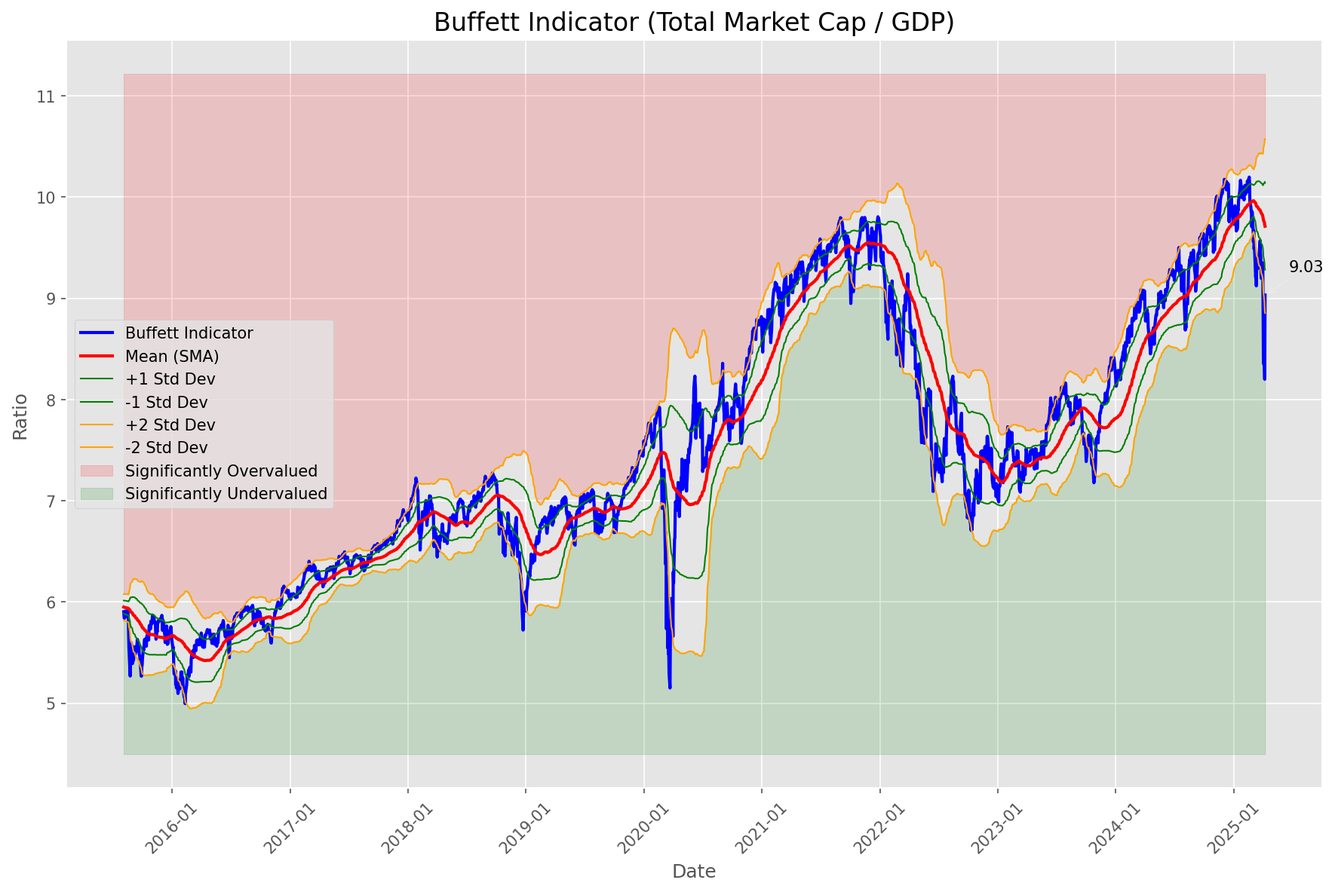
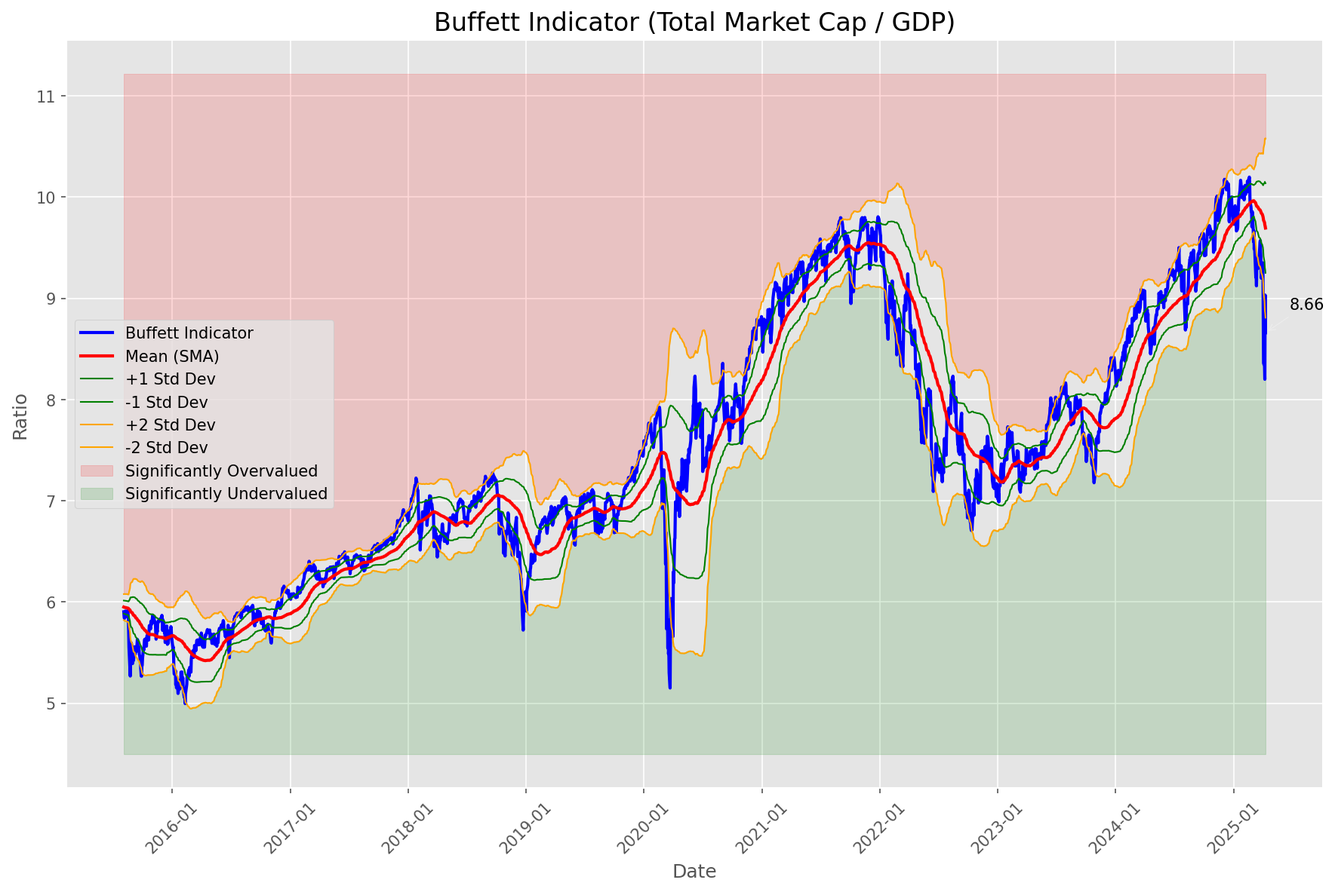
Add market report for 2025-04-11

diff --git a/oneil_relative_strength_report_2025-04-11.md b/oneil_relative_strength_report_2025-04-11.md
@@ -8,26 +8,26 @@
 
 | Metric | Value |
 |--------|-------|
-| **Market Valuation** | **Undervalued** |
-| **Current Ratio** | 8.66 |
-| **Historical Mean** | 9.71 |
-| **Standard Deviation** | 0.43 |
-| **Z-Score (StdDev from Mean)** | -1.58 |
-| **Total Market Cap** | $257.43 trillion |
+| **Market Valuation** | **Significantly Undervalued** |
+| **Current Ratio** | 8.67 |
+| **Historical Mean** | 9.69 |
+| **Standard Deviation** | 0.44 |
+| **Z-Score (StdDev from Mean)** | -2.33 |
+| **Total Market Cap** | $257.68 trillion |
 | **GDP** | $29.72 trillion |
 
 ## **Market Insights**
 
-### **Market is Undervalued**
+### **Market is Significantly Undervalued**
 
-The market is trading below historical average valuations, suggesting potential opportunity. These conditions have historically preceded periods of above-average returns. Investors should:
+The market has reached valuations significantly below historical norms, suggesting excessive pessimism. These levels have historically offered exceptional long-term buying opportunities. Investors should consider:
 
-- Look for stocks breaking out of consolidation patterns on increasing volume
-- Focus on sectors showing relative strength
-- Consider increasing equity exposure, particularly in quality names
-- Be mindful of overall market direction and avoid fighting the trend
+- Increasing equity exposure gradually
+- Looking for quality companies with strong balance sheets trading at discounted valuations
+- Watching for signs of market bottoming (capitulation, investor sentiment extremes)
+- Developing a watchlist of fundamentally strong stocks building bases
 
-History suggests patient investors are often rewarded when investing during periods of undervaluation.
+While short-term volatility may continue, historical data suggests excellent long-term returns from these levels.
 
 ### **Buffett Indicator Overview**
 
@@ -49,41 +49,41 @@ Based on William O'Neil's Relative Strength Methodology
 
 | ETF | Strength | RS Rating | Performance | Above Key MAs | Trend | Sector |
 |-----|----------|-----------|-------------|--------------|-------|--------|
-| [GLD](https://www.tradingview.com/chart/?symbol=GLD) | 98.5 | 97.0 | 19.54% | 10d ✓, 50d ✓, 200d ✓ | ↗ | Gold |
-| [SLV](https://www.tradingview.com/chart/?symbol=SLV) | 73.2 | 86.0 | 3.48% | 10d ✗, 50d ✗, 200d ✓ | ↗ | Silver |
-| [CIBR](https://www.tradingview.com/chart/?symbol=CIBR) | 65.4 | 71.0 | -3.45% | 10d ✓, 50d ✗, 200d ✗ | ↗ | Cybersecurity |
-| [IYZ](https://www.tradingview.com/chart/?symbol=IYZ) | 64.2 | 68.0 | -4.62% | 10d ✗, 50d ✗, 200d ✓ | ↗ | Telecommunications |
-| [KWEB](https://www.tradingview.com/chart/?symbol=KWEB) | 64.0 | 88.0 | 4.59% | 10d ✗, 50d ✗, 200d ✗ | ↗ | Chinese Internet |
-| [XLP](https://www.tradingview.com/chart/?symbol=XLP) | 63.0 | 86.0 | 2.73% | 10d ✗, 50d ✗, 200d ✗ | ↗ | Consumer Staples |
-| [XLU](https://www.tradingview.com/chart/?symbol=XLU) | 58.5 | 77.0 | -0.83% | 10d ✗, 50d ✗, 200d ✗ | ↗ | Utilities |
-| [DBA](https://www.tradingview.com/chart/?symbol=DBA) | 56.5 | 73.0 | -2.53% | 10d ✗, 50d ✗, 200d ✗ | ↗ | Agriculture |
-| [IYR](https://www.tradingview.com/chart/?symbol=IYR) | 54.0 | 68.0 | -4.55% | 10d ✗, 50d ✗, 200d ✗ | ↗ | Real Estate |
-| [XLF](https://www.tradingview.com/chart/?symbol=XLF) | 53.5 | 67.0 | -5.01% | 10d ✗, 50d ✗, 200d ✗ | ↗ | Financial |
-| [UUP](https://www.tradingview.com/chart/?symbol=UUP) | 52.0 | 64.0 | -6.10% | 10d ✗, 50d ✗, 200d ✗ | ↗ | U.S. Dollar |
-| [XLI](https://www.tradingview.com/chart/?symbol=XLI) | 51.5 | 63.0 | -6.66% | 10d ✗, 50d ✗, 200d ✗ | ↗ | Industrial |
-| [XLC](https://www.tradingview.com/chart/?symbol=XLC) | 50.0 | 60.0 | -7.50% | 10d ✗, 50d ✗, 200d ✗ | ↗ | Communications |
-| [PAVE](https://www.tradingview.com/chart/?symbol=PAVE) | 44.0 | 48.0 | -11.87% | 10d ✗, 50d ✗, 200d ✗ | ↗ | Infrastructure |
-| [AIQ](https://www.tradingview.com/chart/?symbol=AIQ) | 42.5 | 45.0 | -13.22% | 10d ✗, 50d ✗, 200d ✗ | ↗ | Artificial Intelligence & Technology |
-| [TLT](https://www.tradingview.com/chart/?symbol=TLT) | 40.5 | 81.0 | 0.58% | 10d ✗, 50d ✗, 200d ✗ | ↘ | Long-term Treasuries |
+| [GLD](https://www.tradingview.com/chart/?symbol=GLD) | 99.0 | 98.0 | 21.27% | 10d ✓, 50d ✓, 200d ✓ | ↗ | Gold |
+| [SLV](https://www.tradingview.com/chart/?symbol=SLV) | 84.1 | 88.0 | 5.42% | 10d ✓, 50d ✗, 200d ✓ | ↗ | Silver |
+| [XLP](https://www.tradingview.com/chart/?symbol=XLP) | 72.9 | 86.0 | 3.11% | 10d ✓, 50d ✗, 200d ✗ | ↗ | Consumer Staples |
+| [KWEB](https://www.tradingview.com/chart/?symbol=KWEB) | 65.0 | 90.0 | 6.33% | 10d ✗, 50d ✗, 200d ✗ | ↗ | Chinese Internet |
+| [CIBR](https://www.tradingview.com/chart/?symbol=CIBR) | 64.9 | 70.0 | -3.45% | 10d ✓, 50d ✗, 200d ✗ | ↗ | Cybersecurity |
+| [IYZ](https://www.tradingview.com/chart/?symbol=IYZ) | 63.7 | 67.0 | -4.59% | 10d ✗, 50d ✗, 200d ✓ | ↗ | Telecommunications |
+| [XLU](https://www.tradingview.com/chart/?symbol=XLU) | 58.0 | 76.0 | -0.86% | 10d ✗, 50d ✗, 200d ✗ | ↗ | Utilities |
+| [DBA](https://www.tradingview.com/chart/?symbol=DBA) | 56.0 | 72.0 | -2.53% | 10d ✗, 50d ✗, 200d ✗ | ↗ | Agriculture |
+| [XLF](https://www.tradingview.com/chart/?symbol=XLF) | 53.5 | 67.0 | -4.95% | 10d ✗, 50d ✗, 200d ✗ | ↗ | Financial |
+| [IYR](https://www.tradingview.com/chart/?symbol=IYR) | 53.0 | 66.0 | -5.09% | 10d ✗, 50d ✗, 200d ✗ | ↗ | Real Estate |
+| [XLC](https://www.tradingview.com/chart/?symbol=XLC) | 51.5 | 63.0 | -6.66% | 10d ✗, 50d ✗, 200d ✗ | ↗ | Communications |
+| [XLI](https://www.tradingview.com/chart/?symbol=XLI) | 51.0 | 62.0 | -6.84% | 10d ✗, 50d ✗, 200d ✗ | ↗ | Industrial |
+| [UUP](https://www.tradingview.com/chart/?symbol=UUP) | 50.0 | 60.0 | -7.60% | 10d ✗, 50d ✗, 200d ✗ | ↗ | U.S. Dollar |
+| [BIL](https://www.tradingview.com/chart/?symbol=BIL) | 49.4 | 79.0 | 0.04% | 10d ✓, 50d ✗, 200d ✗ | ↘ | Short-term Treasuries |
+| [PAVE](https://www.tradingview.com/chart/?symbol=PAVE) | 44.0 | 48.0 | -11.97% | 10d ✗, 50d ✗, 200d ✗ | ↗ | Infrastructure |
+| [AIQ](https://www.tradingview.com/chart/?symbol=AIQ) | 42.0 | 44.0 | -13.22% | 10d ✗, 50d ✗, 200d ✗ | ↗ | Artificial Intelligence & Technology |
 | [IYT](https://www.tradingview.com/chart/?symbol=IYT) | 40.0 | 40.0 | -15.05% | 10d ✗, 50d ✗, 200d ✗ | ↗ | Transportation |
-| [XLY](https://www.tradingview.com/chart/?symbol=XLY) | 39.5 | 39.0 | -15.50% | 10d ✗, 50d ✗, 200d ✗ | ↗ | Consumer Discretionary |
-| [BIL](https://www.tradingview.com/chart/?symbol=BIL) | 39.5 | 79.0 | 0.03% | 10d ✗, 50d ✗, 200d ✗ | ↘ | Short-term Treasuries |
+| [XLY](https://www.tradingview.com/chart/?symbol=XLY) | 39.0 | 38.0 | -15.95% | 10d ✗, 50d ✗, 200d ✗ | ↗ | Consumer Discretionary |
+| [TLT](https://www.tradingview.com/chart/?symbol=TLT) | 39.0 | 78.0 | -0.18% | 10d ✗, 50d ✗, 200d ✗ | ↘ | Long-term Treasuries |
+| [XLK](https://www.tradingview.com/chart/?symbol=XLK) | 38.5 | 37.0 | -16.45% | 10d ✗, 50d ✗, 200d ✗ | ↗ | Technology |
 | [ARKF](https://www.tradingview.com/chart/?symbol=ARKF) | 38.5 | 37.0 | -16.38% | 10d ✗, 50d ✗, 200d ✗ | ↗ | Fintech Innovation |
-| [XLK](https://www.tradingview.com/chart/?symbol=XLK) | 38.0 | 36.0 | -16.92% | 10d ✗, 50d ✗, 200d ✗ | ↗ | Technology |
-| [XLV](https://www.tradingview.com/chart/?symbol=XLV) | 35.5 | 71.0 | -3.45% | 10d ✗, 50d ✗, 200d ✗ | ↘ | Healthcare |
+| [XLV](https://www.tradingview.com/chart/?symbol=XLV) | 35.0 | 70.0 | -3.48% | 10d ✗, 50d ✗, 200d ✗ | ↘ | Healthcare |
 | [BLOK](https://www.tradingview.com/chart/?symbol=BLOK) | 35.0 | 30.0 | -19.59% | 10d ✗, 50d ✗, 200d ✗ | ↗ | Blockchain & Cryptocurrency |
+| [ICLN](https://www.tradingview.com/chart/?symbol=ICLN) | 35.0 | 70.0 | -3.60% | 10d ✗, 50d ✗, 200d ✗ | ↘ | Clean Energy |
 | [ARKW](https://www.tradingview.com/chart/?symbol=ARKW) | 34.5 | 29.0 | -20.02% | 10d ✗, 50d ✗, 200d ✗ | ↗ | Next Generation Internet |
-| [DBC](https://www.tradingview.com/chart/?symbol=DBC) | 34.0 | 68.0 | -4.58% | 10d ✗, 50d ✗, 200d ✗ | ↘ | Commodities |
-| [XLB](https://www.tradingview.com/chart/?symbol=XLB) | 31.5 | 63.0 | -6.59% | 10d ✗, 50d ✗, 200d ✗ | ↘ | Materials |
-| [ARKK](https://www.tradingview.com/chart/?symbol=ARKK) | 30.5 | 21.0 | -24.40% | 10d ✗, 50d ✗, 200d ✗ | ↗ | Innovation |
-| [ICLN](https://www.tradingview.com/chart/?symbol=ICLN) | 30.0 | 60.0 | -7.70% | 10d ✗, 50d ✗, 200d ✗ | ↘ | Clean Energy |
-| [JETS](https://www.tradingview.com/chart/?symbol=JETS) | 28.0 | 16.0 | -27.86% | 10d ✗, 50d ✗, 200d ✗ | ↗ | Airlines |
-| [XLE](https://www.tradingview.com/chart/?symbol=XLE) | 23.5 | 47.0 | -12.46% | 10d ✗, 50d ✗, 200d ✗ | ↘ | Energy |
-| [ITB](https://www.tradingview.com/chart/?symbol=ITB) | 22.5 | 45.0 | -13.08% | 10d ✗, 50d ✗, 200d ✗ | ↘ | Home Construction |
-| [IBB](https://www.tradingview.com/chart/?symbol=IBB) | 18.5 | 37.0 | -16.48% | 10d ✗, 50d ✗, 200d ✗ | ↘ | Biotechnology |
-| [URA](https://www.tradingview.com/chart/?symbol=URA) | 11.0 | 22.0 | -23.47% | 10d ✗, 50d ✗, 200d ✗ | ↘ | Uranium |
-| [ARKG](https://www.tradingview.com/chart/?symbol=ARKG) | 10.5 | 21.0 | -24.35% | 10d ✗, 50d ✗, 200d ✗ | ↘ | Genomics |
-| [SOXX](https://www.tradingview.com/chart/?symbol=SOXX) | 9.5 | 19.0 | -25.32% | 10d ✗, 50d ✗, 200d ✗ | ↘ | Semiconductors |
+| [DBC](https://www.tradingview.com/chart/?symbol=DBC) | 34.5 | 69.0 | -4.01% | 10d ✗, 50d ✗, 200d ✗ | ↘ | Commodities |
+| [XLB](https://www.tradingview.com/chart/?symbol=XLB) | 32.5 | 65.0 | -5.80% | 10d ✗, 50d ✗, 200d ✗ | ↘ | Materials |
+| [ARKK](https://www.tradingview.com/chart/?symbol=ARKK) | 30.5 | 21.0 | -23.80% | 10d ✗, 50d ✗, 200d ✗ | ↗ | Innovation |
+| [JETS](https://www.tradingview.com/chart/?symbol=JETS) | 28.0 | 16.0 | -27.80% | 10d ✗, 50d ✗, 200d ✗ | ↗ | Airlines |
+| [URA](https://www.tradingview.com/chart/?symbol=URA) | 24.4 | 29.0 | -19.65% | 10d ✓, 50d ✗, 200d ✗ | ↘ | Uranium |
+| [XLE](https://www.tradingview.com/chart/?symbol=XLE) | 23.0 | 46.0 | -12.44% | 10d ✗, 50d ✗, 200d ✗ | ↘ | Energy |
+| [ARKG](https://www.tradingview.com/chart/?symbol=ARKG) | 22.4 | 25.0 | -21.43% | 10d ✓, 50d ✗, 200d ✗ | ↘ | Genomics |
+| [ITB](https://www.tradingview.com/chart/?symbol=ITB) | 20.5 | 41.0 | -14.68% | 10d ✗, 50d ✗, 200d ✗ | ↘ | Home Construction |
+| [IBB](https://www.tradingview.com/chart/?symbol=IBB) | 19.5 | 39.0 | -15.17% | 10d ✗, 50d ✗, 200d ✗ | ↘ | Biotechnology |
+| [SOXX](https://www.tradingview.com/chart/?symbol=SOXX) | 10.5 | 21.0 | -24.38% | 10d ✗, 50d ✗, 200d ✗ | ↘ | Semiconductors |
 
 ### **Sector ETF Performance Interpretation**
 
@@ -98,107 +98,120 @@ This table shows the relative strength metrics for different market sectors base
 
 ### **Current Sector Leadership**
 
-The current market leadership is coming from the following sectors: **Gold, Silver, Cybersecurity**.
+The current market leadership is coming from the following sectors: **Gold, Silver, Consumer Staples**.
 
-The **Gold** sector (represented by **GLD**) is showing particularly strong relative strength with an RS rating of 97.0 and performance of 19.54% vs. the S&P 500. This sector is trading above its 10-day, 50-day, 200-day moving average(s). Investors should consider focusing on high RS stocks within these leading sectors for potential outperformance.
+The **Gold** sector (represented by **GLD**) is showing particularly strong relative strength with an RS rating of 98.0 and performance of 21.27% vs. the S&P 500. This sector is trading above its 10-day, 50-day, 200-day moving average(s). Investors should consider focusing on high RS stocks within these leading sectors for potential outperformance.
 
 ---
 
 ## **Buy Recommendations**
 
-The following 44 stocks show exceptional relative strength:
+The following 52 stocks show exceptional relative strength:
 
 | RS Rating | Buy Score | Current Price | Chart | Name | Ticker |
 |-----------|-----------|---------------|-------|------|--------|
-| 100 | 100 | $111.55 | [Chart](https://www.tradingview.com/chart/?symbol=AEM) | Agnico Eagle Mines Ltd. | AEM |
-| 100 | 100 | $131.04 | [Chart](https://www.tradingview.com/chart/?symbol=UGL) | ProShares Ultra Gold | UGL |
-| 100 | 100 | $27.97 | [Chart](https://www.tradingview.com/chart/?symbol=AGI) | Alamos Gold Inc. Class A Common Shares | AGI |
-| 99 | 100 | $117.30 | [Chart](https://www.tradingview.com/chart/?symbol=BJ) | BJs Wholesale Club Holdings, Inc. Common Stock | BJ |
-| 99 | 100 | $170.97 | [Chart](https://www.tradingview.com/chart/?symbol=RGLD) | Royal Gold Inc | RGLD |
-| 99 | 100 | $77.90 | [Chart](https://www.tradingview.com/chart/?symbol=WPM) | Wheaton Precious Metals Corp. Common Stock | WPM |
+| 100 | 100 | $117.51 | [Chart](https://www.tradingview.com/chart/?symbol=AEM) | Agnico Eagle Mines Ltd. | AEM |
+| 100 | 100 | $136.10 | [Chart](https://www.tradingview.com/chart/?symbol=UGL) | ProShares Ultra Gold | UGL |
+| 100 | 100 | $81.97 | [Chart](https://www.tradingview.com/chart/?symbol=WPM) | Wheaton Precious Metals Corp. Common Stock | WPM |
+| 100 | 100 | $29.43 | [Chart](https://www.tradingview.com/chart/?symbol=AGI) | Alamos Gold Inc. Class A Common Shares | AGI |
 | 99 | 100 | $142.99 | [Chart](https://www.tradingview.com/chart/?symbol=PLMR) | Palomar Holdings, Inc. Common stock | PLMR |
-| 99 | 100 | $58.23 | [Chart](https://www.tradingview.com/chart/?symbol=GDXJ) | VanEck Junior Gold Miners ETF | GDXJ |
-| 99 | 100 | $15.49 | [Chart](https://www.tradingview.com/chart/?symbol=EZPW) | Ezcorp Inc | EZPW |
-| 99 | 100 | $18.49 | [Chart](https://www.tradingview.com/chart/?symbol=SWI) | SolarWinds Corporation Common Stock | SWI |
-| 98 | 100 | $22.02 | [Chart](https://www.tradingview.com/chart/?symbol=SRAD) | Sportradar Group AG Class A Ordinary Shares | SRAD |
-| 97 | 100 | $292.35 | [Chart](https://www.tradingview.com/chart/?symbol=GLD) | SPDR Gold Trust, SPDR Gold Shares | GLD |
-| 97 | 100 | $31.32 | [Chart](https://www.tradingview.com/chart/?symbol=AAAU) | Goldman Sachs Physical Gold ETF Shares | AAAU |
-| 97 | 100 | $62.80 | [Chart](https://www.tradingview.com/chart/?symbol=GLDM) | SPDR Gold MiniShares | GLDM |
-| 97 | 100 | $21.81 | [Chart](https://www.tradingview.com/chart/?symbol=OR) | Osisko Gold Royalties Ltd | OR |
-| 97 | 100 | $31.63 | [Chart](https://www.tradingview.com/chart/?symbol=IAUM) | iShares Gold Trust Micro | IAUM |
-| 97 | 100 | $24.32 | [Chart](https://www.tradingview.com/chart/?symbol=PHYS) | Sprott Physical Gold Trust | PHYS |
-| 97 | 100 | $30.26 | [Chart](https://www.tradingview.com/chart/?symbol=SGOL) | abrdn Physical Gold Shares ETF | SGOL |
-| 97 | 100 | $31.26 | [Chart](https://www.tradingview.com/chart/?symbol=BAR) | GraniteShares Gold Shares | BAR |
-| 97 | 100 | $59.81 | [Chart](https://www.tradingview.com/chart/?symbol=IAU) | iShares Gold Trust | IAU |
-| 97 | 100 | $240.23 | [Chart](https://www.tradingview.com/chart/?symbol=RSG) | Republic Services Inc. | RSG |
-| 97 | 100 | $30.55 | [Chart](https://www.tradingview.com/chart/?symbol=OUNZ) | VanEck Merk Gold ETF | OUNZ |
-| 96 | 100 | $37.48 | [Chart](https://www.tradingview.com/chart/?symbol=MRX) | Marex Group plc Ordinary Shares | MRX |
+| 99 | 100 | $61.05 | [Chart](https://www.tradingview.com/chart/?symbol=GDXJ) | VanEck Junior Gold Miners ETF | GDXJ |
+| 99 | 100 | $178.06 | [Chart](https://www.tradingview.com/chart/?symbol=RGLD) | Royal Gold Inc | RGLD |
+| 99 | 100 | $18.48 | [Chart](https://www.tradingview.com/chart/?symbol=SWI) | SolarWinds Corporation Common Stock | SWI |
+| 99 | 100 | $15.46 | [Chart](https://www.tradingview.com/chart/?symbol=EZPW) | Ezcorp Inc | EZPW |
+| 98 | 100 | $61.00 | [Chart](https://www.tradingview.com/chart/?symbol=IAU) | iShares Gold Trust | IAU |
+| 98 | 100 | $154.41 | [Chart](https://www.tradingview.com/chart/?symbol=PM) | Philip Morris International Inc. | PM |
+| 98 | 100 | $24.83 | [Chart](https://www.tradingview.com/chart/?symbol=PHYS) | Sprott Physical Gold Trust | PHYS |
+| 98 | 100 | $31.90 | [Chart](https://www.tradingview.com/chart/?symbol=BAR) | GraniteShares Gold Shares | BAR |
+| 98 | 100 | $32.25 | [Chart](https://www.tradingview.com/chart/?symbol=IAUM) | iShares Gold Trust Micro | IAUM |
+| 98 | 100 | $30.85 | [Chart](https://www.tradingview.com/chart/?symbol=SGOL) | abrdn Physical Gold Shares ETF | SGOL |
+| 98 | 100 | $115.38 | [Chart](https://www.tradingview.com/chart/?symbol=BJ) | BJs Wholesale Club Holdings, Inc. Common Stock | BJ |
+| 98 | 100 | $31.18 | [Chart](https://www.tradingview.com/chart/?symbol=OUNZ) | VanEck Merk Gold ETF | OUNZ |
+| 98 | 100 | $298.15 | [Chart](https://www.tradingview.com/chart/?symbol=GLD) | SPDR Gold Trust, SPDR Gold Shares | GLD |
+| 98 | 100 | $64.05 | [Chart](https://www.tradingview.com/chart/?symbol=GLDM) | SPDR Gold MiniShares | GLDM |
+| 97 | 100 | $22.33 | [Chart](https://www.tradingview.com/chart/?symbol=OR) | Osisko Gold Royalties Ltd | OR |
+| 97 | 100 | $45.48 | [Chart](https://www.tradingview.com/chart/?symbol=EXC) | Exelon Corporation | EXC |
+| 97 | 100 | $123.00 | [Chart](https://www.tradingview.com/chart/?symbol=BECN) | Beacon Roofing Supply, Inc. | BECN |
+| 97 | 100 | $22.29 | [Chart](https://www.tradingview.com/chart/?symbol=SRAD) | Sportradar Group AG Class A Ordinary Shares | SRAD |
+| 96 | 100 | $241.70 | [Chart](https://www.tradingview.com/chart/?symbol=RSG) | Republic Services Inc. | RSG |
+| 96 | 100 | $28.55 | [Chart](https://www.tradingview.com/chart/?symbol=CEF) | Sprott Physical Gold and Silver Trust | CEF |
+| 96 | 100 | $37.50 | [Chart](https://www.tradingview.com/chart/?symbol=MRX) | Marex Group plc Ordinary Shares | MRX |
+| 95 | 100 | $86.65 | [Chart](https://www.tradingview.com/chart/?symbol=CCEP) | Coca-Cola Europacific Partners plc Ordinary Shares | CCEP |
 | 95 | 100 | $52.15 | [Chart](https://www.tradingview.com/chart/?symbol=SKWD) | Skyward Specialty Insurance Group, Inc. Common Stock | SKWD |
-| 95 | 100 | $27.97 | [Chart](https://www.tradingview.com/chart/?symbol=CEF) | Sprott Physical Gold and Silver Trust | CEF |
-| 95 | 100 | $67.90 | [Chart](https://www.tradingview.com/chart/?symbol=KR) | The Kroger Co. | KR |
+| 95 | 100 | $263.64 | [Chart](https://www.tradingview.com/chart/?symbol=CME) | CME Group Inc. | CME |
+| 95 | 100 | $67.61 | [Chart](https://www.tradingview.com/chart/?symbol=KR) | The Kroger Co. | KR |
+| 95 | 100 | $518.36 | [Chart](https://www.tradingview.com/chart/?symbol=BRK.B) | BERKSHIRE HATHAWAY Class B | BRK.B |
+| 94 | 100 | $41.38 | [Chart](https://www.tradingview.com/chart/?symbol=BTI) | British American Tobacco p.l.c. American Depositary Shares, American Depositary Shares, each representing one Ordinary Share | BTI |
 | 94 | 100 | $102.13 | [Chart](https://www.tradingview.com/chart/?symbol=EHC) | Encompass Health Corporation Common Stock | EHC |
+| 94 | 100 | $272.66 | [Chart](https://www.tradingview.com/chart/?symbol=PGR) | Progressive Corporation | PGR |
 | 94 | 100 | $438.01 | [Chart](https://www.tradingview.com/chart/?symbol=CASY) | Casey's General Stores Inc | CASY |
-| 94 | 100 | $273.18 | [Chart](https://www.tradingview.com/chart/?symbol=PGR) | Progressive Corporation | PGR |
 | 93 | 100 | $102.78 | [Chart](https://www.tradingview.com/chart/?symbol=ATGE) | Adtalem Global Education Inc. Common Shares | ATGE |
-| 93 | 100 | $153.92 | [Chart](https://www.tradingview.com/chart/?symbol=SFM) | Sprouts Farmers Market, Inc. | SFM |
-| 93 | 100 | $31.71 | [Chart](https://www.tradingview.com/chart/?symbol=KTOS) | Kratos Defense & Security Solutions, Inc. | KTOS |
-| 93 | 100 | $40.55 | [Chart](https://www.tradingview.com/chart/?symbol=BTI) | British American Tobacco p.l.c. American Depositary Shares, American Depositary Shares, each representing one Ordinary Share | BTI |
-| 92 | 100 | $113.25 | [Chart](https://www.tradingview.com/chart/?symbol=OLLI) | Ollie's Bargain Outlet Holdings, Inc. Common Stock | OLLI |
-| 92 | 100 | $47.50 | [Chart](https://www.tradingview.com/chart/?symbol=GFL) | GFL Environmental Inc. Subordinate Voting Shares | GFL |
+| 93 | 100 | $31.90 | [Chart](https://www.tradingview.com/chart/?symbol=KTOS) | Kratos Defense & Security Solutions, Inc. | KTOS |
+| 93 | 100 | $193.42 | [Chart](https://www.tradingview.com/chart/?symbol=WCN) | Waste Connections, Inc. | WCN |
+| 93 | 100 | $155.56 | [Chart](https://www.tradingview.com/chart/?symbol=SFM) | Sprouts Farmers Market, Inc. | SFM |
+| 91 | 100 | $78.93 | [Chart](https://www.tradingview.com/chart/?symbol=FAST) | Fastenal Co | FAST |
+| 91 | 100 | $48.20 | [Chart](https://www.tradingview.com/chart/?symbol=GFL) | GFL Environmental Inc. Subordinate Voting Shares | GFL |
+| 91 | 100 | $307.69 | [Chart](https://www.tradingview.com/chart/?symbol=MCD) | McDonald's Corporation | MCD |
 | 91 | 100 | $114.00 | [Chart](https://www.tradingview.com/chart/?symbol=CWST) | Casella Waste Systems Inc | CWST |
-| 90 | 100 | $127.47 | [Chart](https://www.tradingview.com/chart/?symbol=TJX) | TJX Companies, Inc. (The) | TJX |
 | 89 | 100 | $33.96 | [Chart](https://www.tradingview.com/chart/?symbol=DRS) | Leonardo DRS, Inc. Common Stock | DRS |
-| 89 | 100 | $44.75 | [Chart](https://www.tradingview.com/chart/?symbol=MRCY) | Mercury Systems Inc. | MRCY |
-| 88 | 97 | $75.79 | [Chart](https://www.tradingview.com/chart/?symbol=FAST) | Fastenal Co | FAST |
-| 85 | 97 | $22.48 | [Chart](https://www.tradingview.com/chart/?symbol=ATSG) | Air Transport Services Group, Inc. | ATSG |
-| 85 | 96 | $74.01 | [Chart](https://www.tradingview.com/chart/?symbol=BRBR) | BellRing Brands, Inc. | BRBR |
-| 85 | 96 | $35.94 | [Chart](https://www.tradingview.com/chart/?symbol=FYBR) | Frontier Communications Parent, Inc. Common Stock | FYBR |
-| 83 | 96 | $111.60 | [Chart](https://www.tradingview.com/chart/?symbol=BOXX) | Alpha Architect 1-3 Month Box ETF | BOXX |
+| 88 | 100 | $44.75 | [Chart](https://www.tradingview.com/chart/?symbol=MRCY) | Mercury Systems Inc. | MRCY |
+| 86 | 99 | $17.90 | [Chart](https://www.tradingview.com/chart/?symbol=GRND) | Grindr Inc. | GRND |
+| 88 | 98 | $127.51 | [Chart](https://www.tradingview.com/chart/?symbol=TJX) | TJX Companies, Inc. (The) | TJX |
+| 84 | 96 | $22.48 | [Chart](https://www.tradingview.com/chart/?symbol=ATSG) | Air Transport Services Group, Inc. | ATSG |
+| 83 | 96 | $111.65 | [Chart](https://www.tradingview.com/chart/?symbol=BOXX) | Alpha Architect 1-3 Month Box ETF | BOXX |
+| 84 | 95 | $74.01 | [Chart](https://www.tradingview.com/chart/?symbol=BRBR) | BellRing Brands, Inc. | BRBR |
+| 83 | 94 | $35.91 | [Chart](https://www.tradingview.com/chart/?symbol=FYBR) | Frontier Communications Parent, Inc. Common Stock | FYBR |
+| 83 | 93 | $22.48 | [Chart](https://www.tradingview.com/chart/?symbol=PYCR) | Paycor HCM, Inc. Common Stock | PYCR |
 
 ---
 
 
 ## **Sell Recommendations**
 
-The following 36 stocks show deteriorating relative strength:
+The following 41 stocks show deteriorating relative strength:
 
 | RS Rating | Sell Score | Current Price | Chart | Name | Ticker |
 |-----------|------------|---------------|-------|------|--------|
-| 1 | 100 | $65.92 | [Chart](https://www.tradingview.com/chart/?symbol=PI) | Impinj, Inc. Common Stock | PI |
-| 3 | 100 | $18.79 | [Chart](https://www.tradingview.com/chart/?symbol=DJT) | Trump Media & Technology Group Corp. Common Stock | DJT |
-| 5 | 100 | $11.58 | [Chart](https://www.tradingview.com/chart/?symbol=GCT) | GigaCloud Technology Inc Class A Ordinary Shares | GCT |
+| 1 | 100 | $66.19 | [Chart](https://www.tradingview.com/chart/?symbol=PI) | Impinj, Inc. Common Stock | PI |
+| 4 | 100 | $19.00 | [Chart](https://www.tradingview.com/chart/?symbol=DJT) | Trump Media & Technology Group Corp. Common Stock | DJT |
+| 6 | 100 | $11.56 | [Chart](https://www.tradingview.com/chart/?symbol=GCT) | GigaCloud Technology Inc Class A Ordinary Shares | GCT |
 | 7 | 100 | $10.10 | [Chart](https://www.tradingview.com/chart/?symbol=CGEM) | Cullinan Therapeutics, Inc. Common Stock | CGEM |
-| 11 | 100 | $42.57 | [Chart](https://www.tradingview.com/chart/?symbol=EDU) | New Oriental Education and Technology Group, Inc. American Depositary Shares (each representing ten (10) Common Shares) | EDU |
+| 12 | 100 | $43.70 | [Chart](https://www.tradingview.com/chart/?symbol=EDU) | New Oriental Education and Technology Group, Inc. American Depositary Shares (each representing ten (10) Common Shares) | EDU |
 | 13 | 100 | $27.24 | [Chart](https://www.tradingview.com/chart/?symbol=SRDX) | Surmodics, Inc. Common Stock | SRDX |
-| 12 | 97 | $49.56 | [Chart](https://www.tradingview.com/chart/?symbol=ENPH) | Enphase Energy, Inc. | ENPH |
+| 13 | 99 | $19.31 | [Chart](https://www.tradingview.com/chart/?symbol=ST) | Sensata Technologies Holding plc | ST |
+| 15 | 97 | $49.65 | [Chart](https://www.tradingview.com/chart/?symbol=ENPH) | Enphase Energy, Inc. | ENPH |
+| 8 | 94 | $12.51 | [Chart](https://www.tradingview.com/chart/?symbol=DV) | DoubleVerify Holdings, Inc. | DV |
 | 15 | 94 | $11.78 | [Chart](https://www.tradingview.com/chart/?symbol=AEYE) | AudioEye, Inc. Common Stock | AEYE |
+| 11 | 92 | $12.28 | [Chart](https://www.tradingview.com/chart/?symbol=MARA) | MARA Holdings, Inc. Common Stock | MARA |
+| 15 | 92 | $48.20 | [Chart](https://www.tradingview.com/chart/?symbol=RHI) | Robert Half Inc. | RHI |
 | 14 | 91 | $19.42 | [Chart](https://www.tradingview.com/chart/?symbol=HZO) | MarineMax, Inc. | HZO |
+| 24 | 91 | $13.22 | [Chart](https://www.tradingview.com/chart/?symbol=FXN) | First Trust Energy AlphaDEX Fund | FXN |
 | 26 | 91 | $10.03 | [Chart](https://www.tradingview.com/chart/?symbol=MTAL) | MAC Copper Limited | MTAL |
-| 25 | 90 | $13.22 | [Chart](https://www.tradingview.com/chart/?symbol=FXN) | First Trust Energy AlphaDEX Fund | FXN |
 | 12 | 89 | $10.01 | [Chart](https://www.tradingview.com/chart/?symbol=VYX) | NCR Voyix Corporation | VYX |
-| 14 | 89 | $48.50 | [Chart](https://www.tradingview.com/chart/?symbol=RHI) | Robert Half Inc. | RHI |
 | 17 | 89 | $10.24 | [Chart](https://www.tradingview.com/chart/?symbol=EXPI) | eXp World Holdings, Inc. Common Stock | EXPI |
+| 21 | 89 | $52.29 | [Chart](https://www.tradingview.com/chart/?symbol=CNMD) | CONMED Corporation | CNMD |
 | 29 | 89 | $13.14 | [Chart](https://www.tradingview.com/chart/?symbol=MED) | Medifast, Inc. | MED |
-| 22 | 88 | $52.29 | [Chart](https://www.tradingview.com/chart/?symbol=CNMD) | CONMED Corporation | CNMD |
+| 22 | 87 | $22.16 | [Chart](https://www.tradingview.com/chart/?symbol=HOG) | Harley-Davidson, Inc. | HOG |
 | 15 | 86 | $10.31 | [Chart](https://www.tradingview.com/chart/?symbol=VREX) | Varex Imaging Corporation Common Stock | VREX |
 | 20 | 84 | $10.26 | [Chart](https://www.tradingview.com/chart/?symbol=CMP) | Compass Minerals International, Inc. | CMP |
 | 23 | 84 | $10.49 | [Chart](https://www.tradingview.com/chart/?symbol=PEB) | Pebblebrook Hotel Trust | PEB |
 | 17 | 83 | $111.89 | [Chart](https://www.tradingview.com/chart/?symbol=MYRG) | MYR Group, Inc. | MYRG |
 | 22 | 83 | $11.34 | [Chart](https://www.tradingview.com/chart/?symbol=HPK) | HighPeak Energy, Inc. Common Stock | HPK |
 | 21 | 82 | $10.15 | [Chart](https://www.tradingview.com/chart/?symbol=HLIT) | Harmonic Inc | HLIT |
-| 23 | 82 | $11.46 | [Chart](https://www.tradingview.com/chart/?symbol=RIVN) | Rivian Automotive, Inc. Class A Common Stock | RIVN |
-| 30 | 82 | $10.11 | [Chart](https://www.tradingview.com/chart/?symbol=CELC) | Celcuity Inc. Common Stock | CELC |
+| 25 | 82 | $11.12 | [Chart](https://www.tradingview.com/chart/?symbol=RIVN) | Rivian Automotive, Inc. Class A Common Stock | RIVN |
 | 26 | 81 | $10.04 | [Chart](https://www.tradingview.com/chart/?symbol=HTLD) | Heartland Express Inc | HTLD |
-| 23 | 79 | $351.45 | [Chart](https://www.tradingview.com/chart/?symbol=SAIA) | Saia, Inc. | SAIA |
+| 31 | 81 | $10.11 | [Chart](https://www.tradingview.com/chart/?symbol=CELC) | Celcuity Inc. Common Stock | CELC |
+| 22 | 80 | $351.45 | [Chart](https://www.tradingview.com/chart/?symbol=SAIA) | Saia, Inc. | SAIA |
 | 30 | 79 | $76.33 | [Chart](https://www.tradingview.com/chart/?symbol=LEA) | Lear Corporation | LEA |
 | 26 | 77 | $10.26 | [Chart](https://www.tradingview.com/chart/?symbol=PACS) | PACS Group, Inc. | PACS |
 | 33 | 77 | $10.71 | [Chart](https://www.tradingview.com/chart/?symbol=DBRG) | DigitalBridge Group, Inc. | DBRG |
 | 26 | 76 | $17.42 | [Chart](https://www.tradingview.com/chart/?symbol=IART) | Integra LifeSciences Holdings | IART |
 | 30 | 76 | $22.11 | [Chart](https://www.tradingview.com/chart/?symbol=AMRK) | A-Mark Precious Metals, Inc. | AMRK |
 | 39 | 72 | $10.30 | [Chart](https://www.tradingview.com/chart/?symbol=CSTM) | Constellium SE Class A Ordinary shares | CSTM |
-| 36 | 70 | $10.90 | [Chart](https://www.tradingview.com/chart/?symbol=LBTYK) | Liberty Global Ltd. Class C Common Shares | LBTYK |
 | 36 | 69 | $10.34 | [Chart](https://www.tradingview.com/chart/?symbol=CMRE) | Costamare Inc. | CMRE |
 | 36 | 69 | $16.74 | [Chart](https://www.tradingview.com/chart/?symbol=CTRI) | Centuri Holdings, Inc. | CTRI |
+| 36 | 69 | $149.62 | [Chart](https://www.tradingview.com/chart/?symbol=ODFL) | Old Dominion Freight Line | ODFL |
+| 38 | 66 | $10.55 | [Chart](https://www.tradingview.com/chart/?symbol=LBTYA) | Liberty Global Ltd. Class A Common Shares | LBTYA |
 | 38 | 63 | $34.28 | [Chart](https://www.tradingview.com/chart/?symbol=LIT) | Global X Lithium & Battery Tech ETF | LIT |
 
 ## **Methodology**
